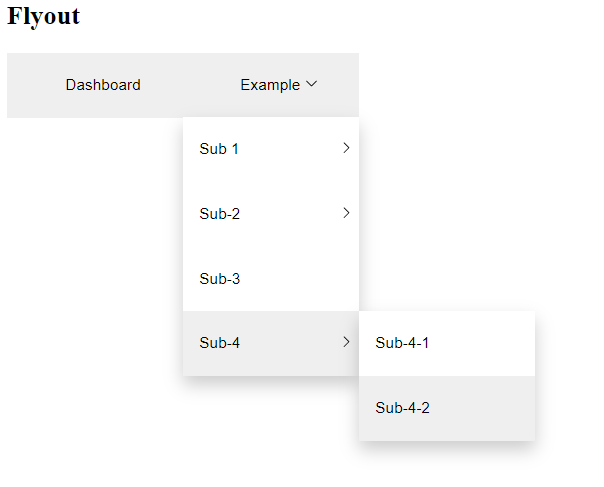
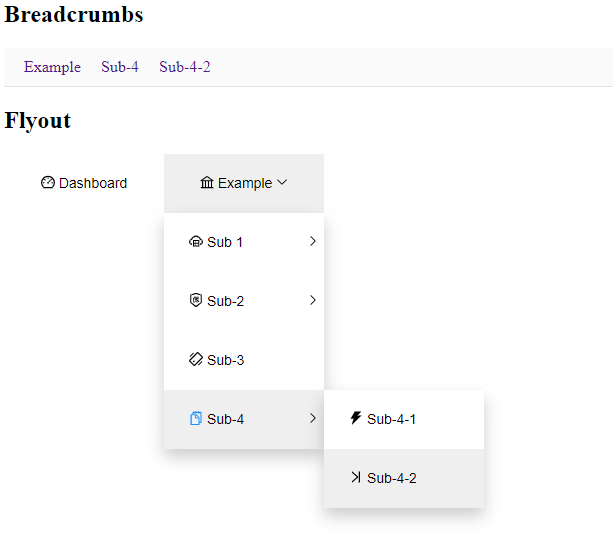
edit breadcrumbs Example fix layout edit readme

diff --git a/examples/client/Example.jsx b/examples/client/Example.jsx
@@ -85,10 +85,10 @@ export const Example = () => {
 
     return (
         <Router>
-            <h2>Flyout</h2>
-            <FlyoutWithIcons onClick={onClick} routes={routes} selectedKeys={selectedKeys} />
             <h2>Breadcrumbs</h2>
             <Breadcrumbs onClick={onClick} routes={routes} selectedKeys={selectedKeys} />
+            <h2>Flyout</h2>
+            <FlyoutWithIcons onClick={onClick} routes={routes} selectedKeys={selectedKeys} />
         </Router>
     );
 };

diff --git a/src/Breadcrumbs.scss b/src/Breadcrumbs.scss
@@ -1,11 +1,11 @@
 .breadcrumbs {
     border-bottom: 1px solid #e2e2e2;
     background-color: #fafafa;
-    height: 40px;
     padding: 10px;
 
     ul {
-
+        padding: 0;
+        margin: 0;
         li {
             list-style: none;
             display: inline-block;

diff --git a/README.md b/README.md
@@ -4,7 +4,7 @@
 
 lightweight react navigation components.
 
-![alt text](./navigations-with-icons.png "@scripty/react-navigations")
+![alt text](./navigations.png "@scripty/react-navigations")
 
 # Usage
 ```bash
@@ -24,6 +24,7 @@ Just add the name of the desired icon as a string property (see example).
 import React, { useState } from 'react';
 import { BrowserRouter as Router } from 'react-router-dom';
 import { FlyoutWithIcons } from '@scripty/react-navigations/FlyoutWithIcons';
+import { Breadcrumbs } from '@scripty/react-navigations/Breadcrumbs';
 
 export const Example = () => {
 
@@ -107,6 +108,8 @@ export const Example = () => {
 
     return (
         <Router>
+            <h2>Breadcrumbs</h2>
+            <Breadcrumbs onClick={onClick} routes={routes} selectedKeys={selectedKeys} />
             <h2>Flyout</h2>
             <FlyoutWithIcons onClick={onClick} routes={routes} selectedKeys={selectedKeys} />
         </Router>
@@ -115,10 +118,11 @@ export const Example = () => {
 ```
 # Components
 
-Name              | Description                                         |  Size  |
------------------ |---------------------------------------------------- |-----------
-Flyout            |  3 Level Flyout Navigation                          | 155 kb (unzipped with all dependencies)
-FlyoutWithIcons   |  3 Level Flyout Navigation with Antd-Icons library  | 999 kb (unzipped with all dependencies)
+Name              | Description                                         |
+----------------- |---------------------------------------------------- |
+Flyout            |  3 Level Flyout Navigation                          |
+FlyoutWithIcons   |  3 Level Flyout Navigation with Antd-Icons library  |
+Breadcrumbs       |  Breadcrumbs based on given routes                  |
 
 # Navigation Properties
 
@@ -136,3 +140,11 @@ key                | String   | unique id key (required) |
 label              | String   | (required)               |
 path               | String   | (required)               |
 icon               | String   | (optional)               |
+
+# Breadcrumbs Properties
+
+Property           | Type     |  Default  |
+------------------ |--------- |-----------
+onClick            | Function |
+routes             | Array    |
+selectedKeys       | Array    |
